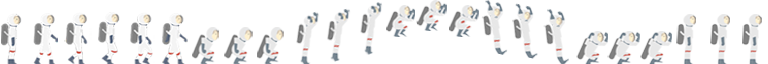
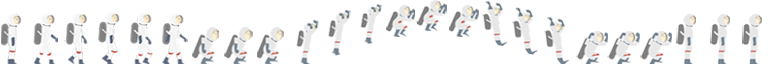
Verbesserung Animation

diff --git a/game/state/play.js b/game/state/play.js
@@ -360,9 +360,9 @@ play.prototype = {
 		 */
 		this.astronaut = new Astronaut(this.game, 100, 440);
 		this.game.add.existing(this.astronaut);
-		this.astronaut.animations.add('walk', [ 1, 2, 3, 4, 5 ], 20, true);
-		this.astronaut.animations.add('jump', [ 6, 7, 8, 9, 10, 11, 12, 13, 14, 15, 16, 17, 18, 19, 20, 21, 22, 23 ], 20, true);
-		this.astronaut.animations.add('stop', [ 0 ], 20, true);
+		this.astronaut.animations.add('walk', [ 1, 2, 3, 4, 5 ], 26, true);
+		this.astronaut.animations.add('jump', [ 6, 7, 8, 9, 10, 11, 12, 13, 14, 15, 16, 17, 18, 19, 20, 21, 22, 23 ], 26, true);
+		this.astronaut.animations.add('stop', [ 0 ], 26, true);
 		this.astronaut.anchor.setTo(0.5, 0.5);
 		this.game.camera.follow(this.astronaut);
 
